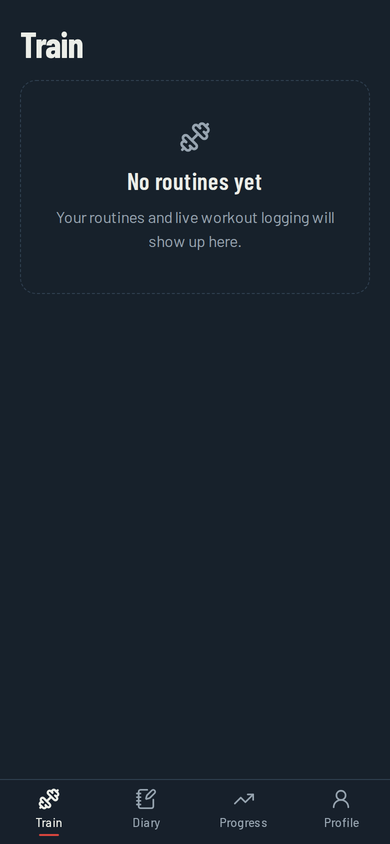
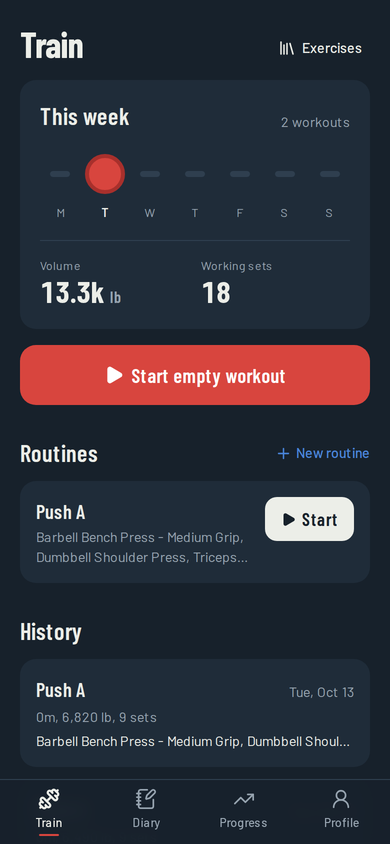
Update README, screenshots, and env example

diff --git a/README.md b/README.md
@@ -6,9 +6,13 @@ training and eating work from the same numbers.
 
 [Live demo](https://calorness.vercel.app). Try it with the demo account, no sign-up needed
 
-| Landing | Train | Profile | Diary |
+| Train | Live workout | Workout summary | Progress |
 | --- | --- | --- | --- |
-| ![Landing page](docs/screenshots/landing.png) | ![Train tab](docs/screenshots/train.png) | ![Goal setup](docs/screenshots/profile.png) | ![Diary with macro targets](docs/screenshots/diary.png) |
+| ![Train tab with weekly plates](docs/screenshots/train.png) | ![Live workout logger with rest timer](docs/screenshots/workout.png) | ![Workout summary with personal records](docs/screenshots/summary.png) | ![Muscle map and weekly volume](docs/screenshots/progress.png) |
+
+| Exercise detail | Landing | Goal setup | Diary |
+| --- | --- | --- | --- |
+| ![Exercise page with 1RM chart](docs/screenshots/exercise.png) | ![Landing page](docs/screenshots/landing.png) | ![Goal setup](docs/screenshots/profile.png) | ![Diary with macro targets](docs/screenshots/diary.png) |
 
 ## Why I built it
 
@@ -21,21 +25,35 @@ tracking that shares data with training.
 
 ## Features
 
-**Working now**
-- Sign in with GitHub, Google, or a shared demo account
+**Training (Hevy-style)**
+- Exercise library of 876 exercises with photos, instructions, and muscle groups, searchable and filterable
+- Routine builder: sets, rep ranges, and rest time per exercise
+- Live workout logger: previous-session values on every set, warm-up/drop/failure sets, autosave if the app closes mid-workout
+- Rest timer that starts when you check off a set, with ±15s and vibration
+- Automatic personal records: heaviest weight, best estimated 1RM, best set volume
+- Exercise pages with your history and an estimated-1RM progress chart
+
+**Progress**
+- Muscle map: sets per muscle over the last 7 days, front and back
+- Weekly volume for the last 8 weeks, best lifts, bodyweight trend
+
+**Nutrition (MyFitnessPal-style)**
 - Calorie and macro targets calculated from your stats (Mifflin–St Jeor + activity level + goal)
 - Daily diary showing remaining calories, protein, carbs, and fat
+
+**General**
+- Sign in with GitHub, Google, or a shared demo account
 - Pounds/feet or kilograms/centimeters
 - Installable to your phone's home screen (PWA)
 
 **Roadmap**
-- [ ] Exercise library (800+ exercises) and custom exercises
-- [ ] Routines, live workout logging, rest timer, supersets, previous-set values
-- [ ] Automatic personal records (heaviest weight, estimated 1RM, best set volume)
+- [x] Exercise library, routines, live workout logging, rest timer, PRs
+- [x] Progress charts: muscle map, weekly volume, best lifts, bodyweight
 - [ ] Food search (USDA FoodData Central) and barcode scanning (Open Food Facts)
 - [ ] Recent/frequent foods, custom foods, recipes, water tracking
-- [ ] Progress charts: strength, bodyweight, weekly muscle volume
+- [ ] Custom exercises and supersets in the logger
 - [ ] Training-aware nutrition: targets that adapt to training volume and weight trend
+- [ ] Time zone setting (dates currently display in US Eastern)
 - [ ] Offline logging in the gym
 
 ## Tech stack
@@ -48,6 +66,7 @@ tracking that shares data with training.
 | Database | PostgreSQL (Neon) with Prisma ORM |
 | Auth | NextAuth (Auth.js) with GitHub/Google OAuth |
 | Validation | Zod |
+| Charts | Hand-built SVG components (no chart library) |
 | Testing | Vitest |
 | CI/CD | GitHub Actions, deployed on Vercel |
 
@@ -63,6 +82,8 @@ has its plate color everywhere it appears: red (25 kg) for calories, blue
 prisma/
   schema.prisma        Database tables: auth, training, nutrition, goals
   migrations/          SQL history, applied automatically on deploy
+  seed.mjs             Loads the exercise library (runs on every deploy, skips existing)
+  data/exercises.json  876 exercises from free-exercise-db (public domain)
 src/
   app/
     (app)/             Signed-in pages: train, diary, progress, profile
@@ -73,7 +94,8 @@ src/
   lib/
     auth.ts            Sign-in config + requireUser() access check
     db.ts              Prisma client
-    fitness/           Pure, tested logic: 1RM, volume, PRs, BMR/TDEE, macros, units
+    training.ts        Training queries: workouts, previous sets, records, progress
+    fitness/           Pure, tested logic: 1RM, volume, PRs, BMR/TDEE, macros, units, muscles, dates
 ```
 
 All data is stored in metric; the UI converts to the user's units.
@@ -89,6 +111,7 @@ cd calorness
 npm install
 cp .env.example .env      # then fill in the values
 npm run db:migrate        # create the tables
+npm run db:seed           # load the exercise library
 npm run dev               # http://localhost:3000
 ```
 
@@ -100,3 +123,7 @@ npm run dev               # http://localhost:3000
 | `npm run lint` | Lint the code |
 | `npm run db:migrate` | Create a migration after editing `schema.prisma` |
 | `npm run db:studio` | Browse the database in a GUI |
+
+## Credits
+
+Exercise data and photos: [free-exercise-db](https://github.com/yuhonas/free-exercise-db) by yuhonas, released into the public domain under the Unlicense.
